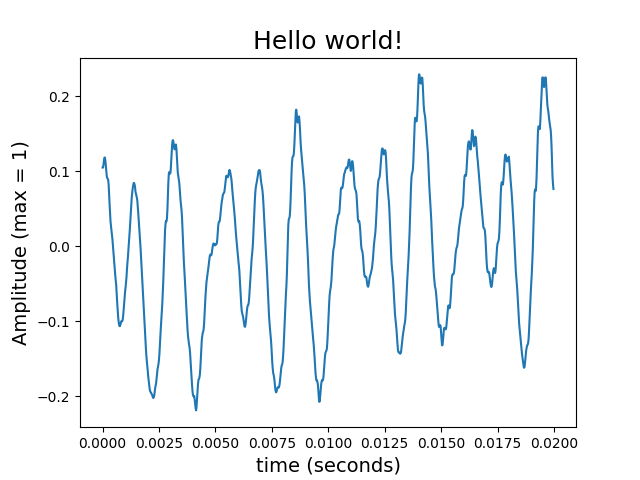
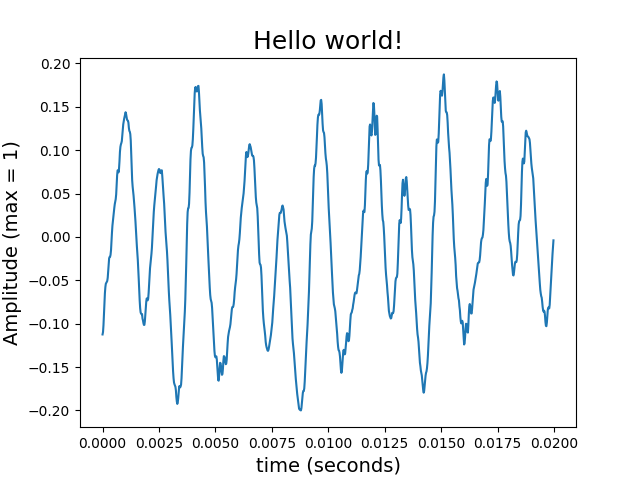
done

diff --git a/project_2/window_observer.py b/project_2/window_observer.py
@@ -3,7 +3,7 @@ from scipy import fftpack
 import matplotlib.pyplot as pyplot
 import numpy as np
 
-DEBUG = True
+DEBUG = False
 
 def pick_window(signal, head, frame_rate, length_sec = 0.02):
     length_n = int(length_sec*frame_rate)
@@ -108,7 +108,10 @@ if __name__ == "__main__":
     LTI_signal = np.zeros(len(window))
     LTI_signal[0] = G_square**0.5
     h = get_model(LTI_signal, x, G_square, order, len(window))
+    h_dft = fftpack.fft(h)
+    h_magnitude = abs(h_dft)
     draw_signal(abs(h), frame_rate)
+    draw_dft(h_magnitude)
     if DEBUG:
         window = np.array([0.5, 1, 2, 1, 0.5, 0.25, 0.125])
         A = get_autocorr_matrix(window, 2)
